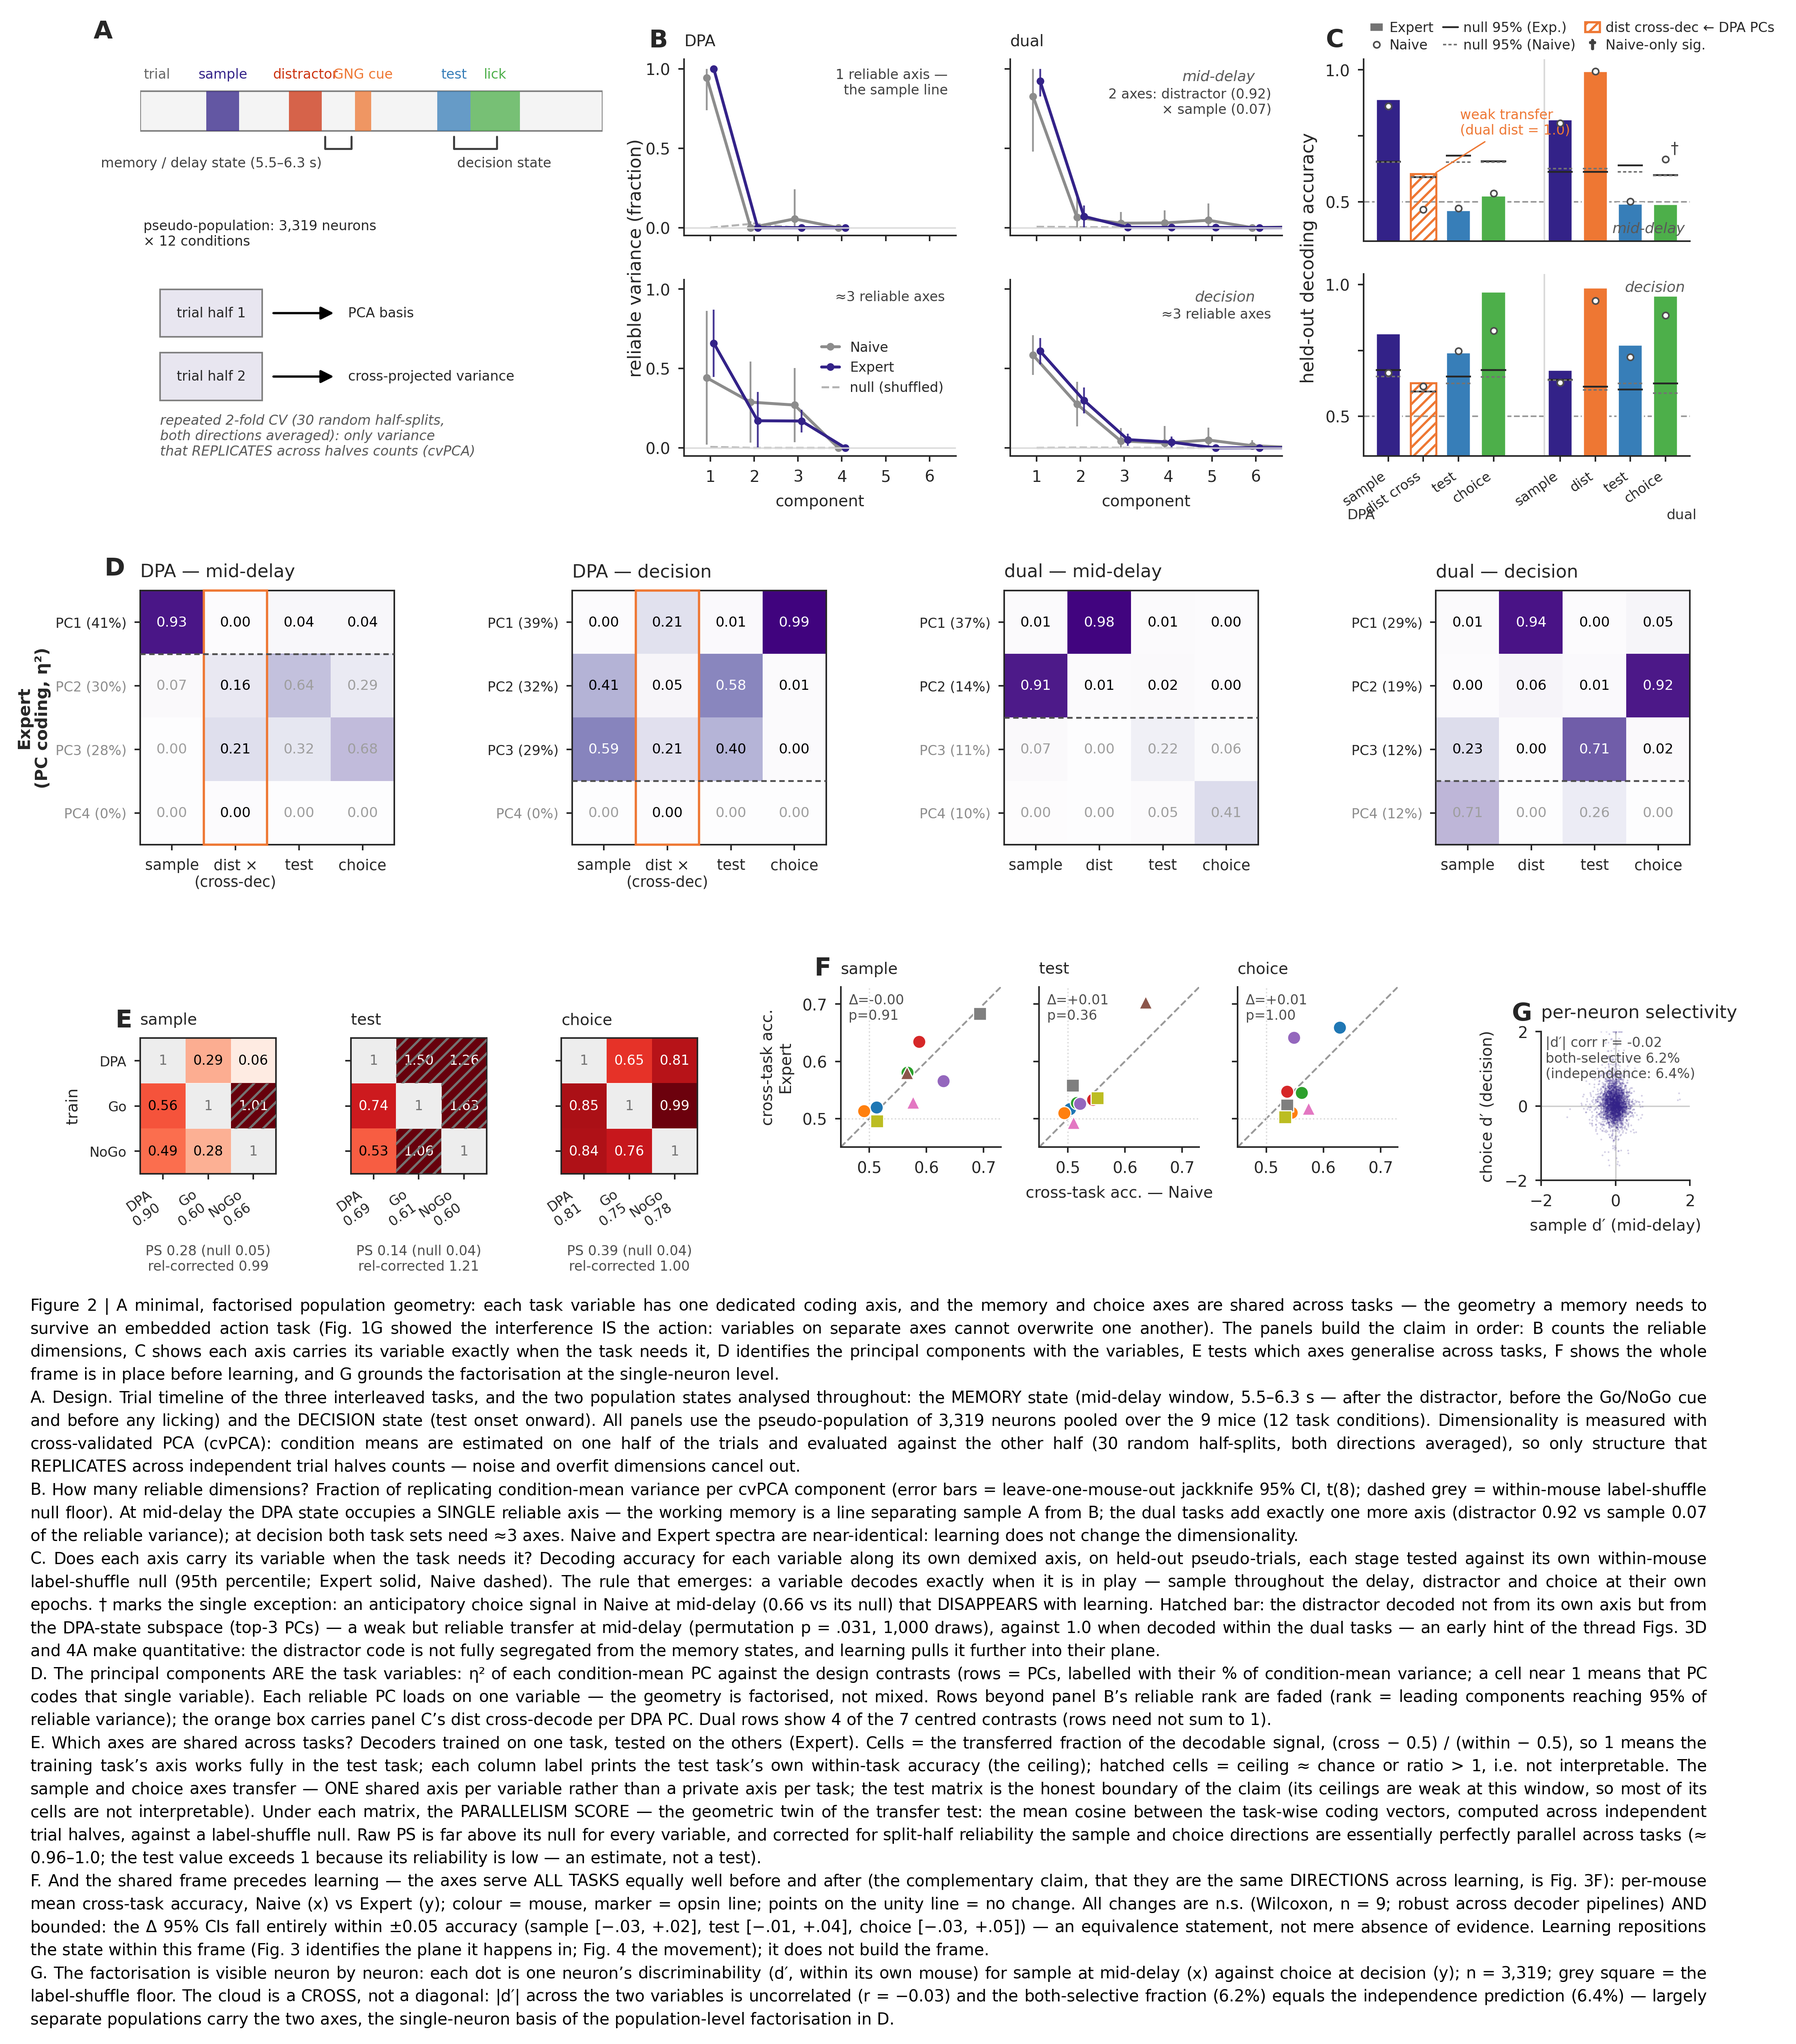
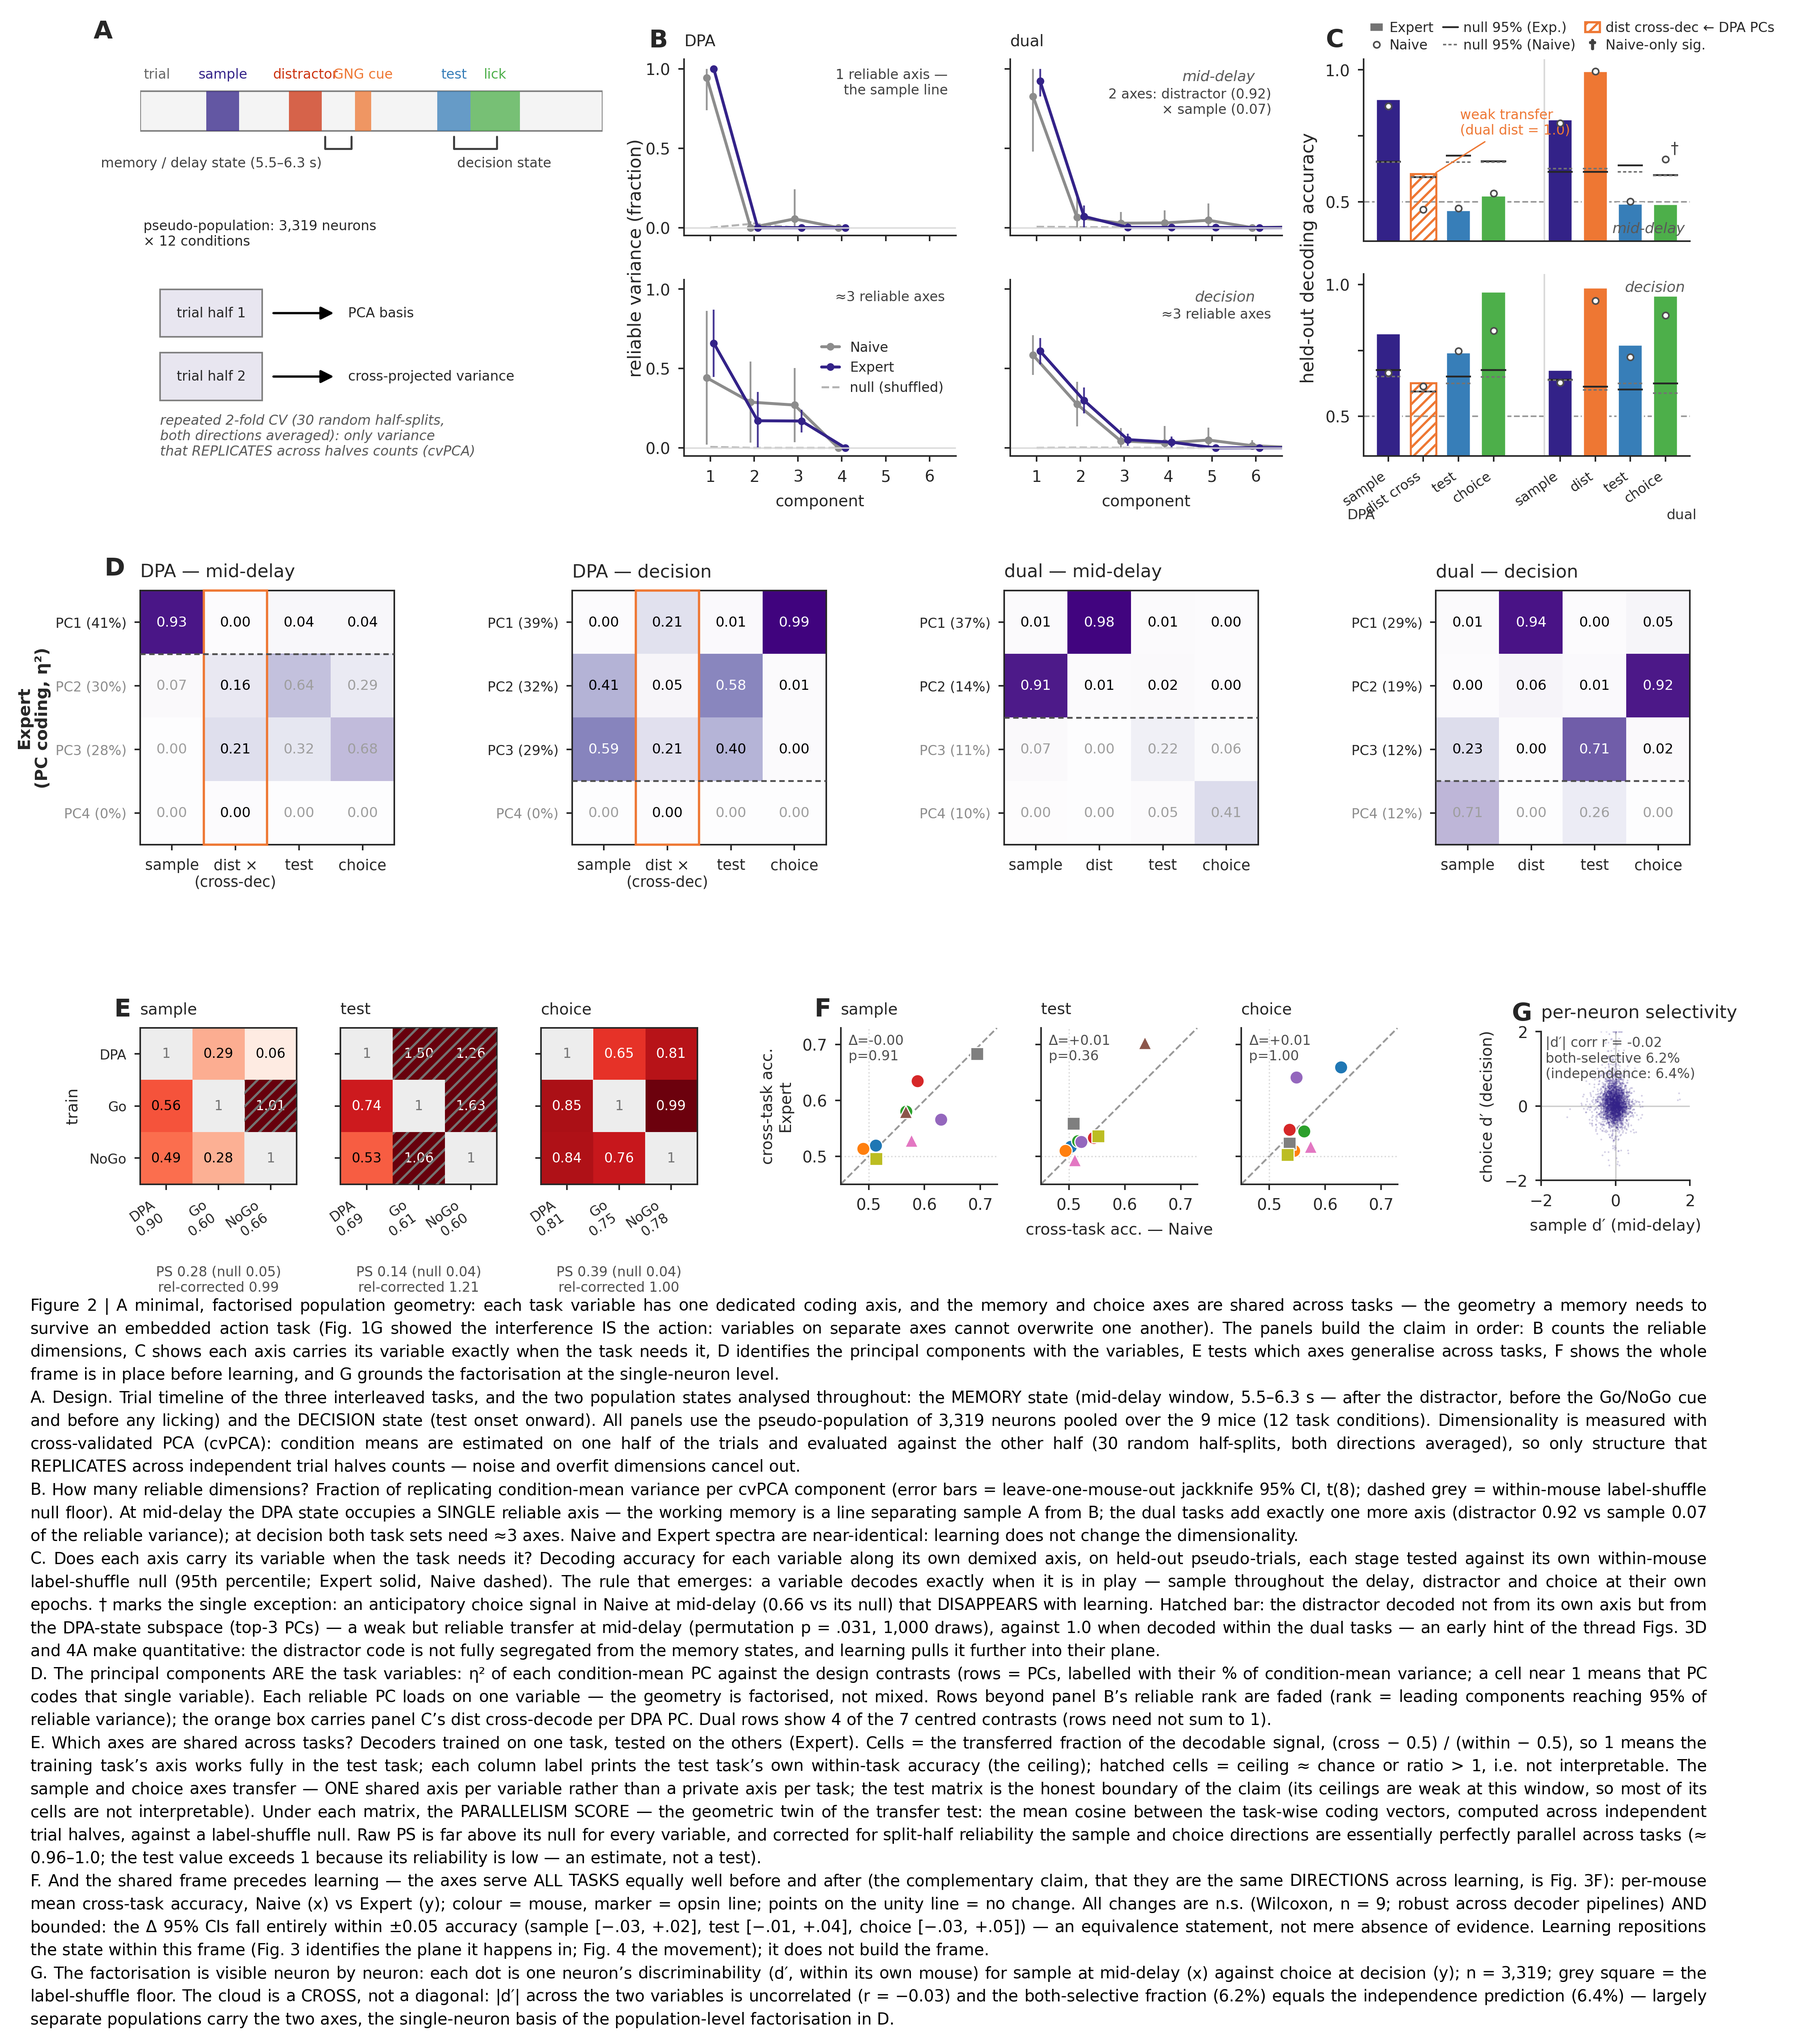
Fig 2: E/F/G on one centre line (equal slot widths; F anchor NW -> C)
Claude-Session: https://claude.ai/code/session_01U5815xHXRaRQ7YCxMTgCsM

Changed region(s): [[0.0623, 0.4981, 0.4048, 0.6226], [0.5605, 0.467, 0.7784, 0.5915], [0.4359, 0.467, 0.5293, 0.5915]]

diff --git a/pca/fig_dimensionality_main.py b/pca/fig_dimensionality_main.py
@@ -536,7 +536,7 @@ def panelF_gen_learning(fig, gsF):
         nv, ev = np.array(nv), np.array(ev)
         p = float(wilcoxon(ev, nv).pvalue)
         ax.set_xlim(lo, hi); ax.set_ylim(lo, hi); ax.set_aspect('equal', adjustable='box')
-        ax.set_anchor('NW')                            # top-align with panel E's matrices
+        ax.set_anchor('C')                             # one centre line with E and G
         ax.set_xticks([0.5, 0.6, 0.7]); ax.set_yticks([0.5, 0.6, 0.7])
         if j:
             ax.tick_params(labelleft=False)
@@ -585,11 +585,11 @@ if CDEC:
     # aspect-locked squares of the SAME size on one centre line (user 2026-09-01)
     gsBot = gs[3, 0:12].subgridspec(1, 9, wspace=0.45,
                                     width_ratios=[1, 1, 1, 0.22, 1, 1, 1, 0.22, 1])
-    gsE = gsBot[0, 0:3].subgridspec(1, 3, wspace=0.55)
+    gsE = gsBot[0, 0:3].subgridspec(1, 3, wspace=0.28)   # same internal gap as F ->
     axE0 = panelE_gen(fig, gsE)
-    gsF = gsBot[0, 4:7].subgridspec(1, 3, wspace=0.24)
+    gsF = gsBot[0, 4:7].subgridspec(1, 3, wspace=0.28)   #   same slot width -> same-size
     axF0 = panelF_gen_learning(fig, gsF)
-    gsG = gsBot[0, 8:9].subgridspec(1, 1)            # G = per-neuron selectivity biplot
+    gsG = gsBot[0, 8:9].subgridspec(1, 1)            #   squares, one shared centre line
     axG = panelG_biplot(fig, gsG)
     plabel(axE0, 'E'); plabel(axF0, 'F'); plabel(axG, 'G')
 
